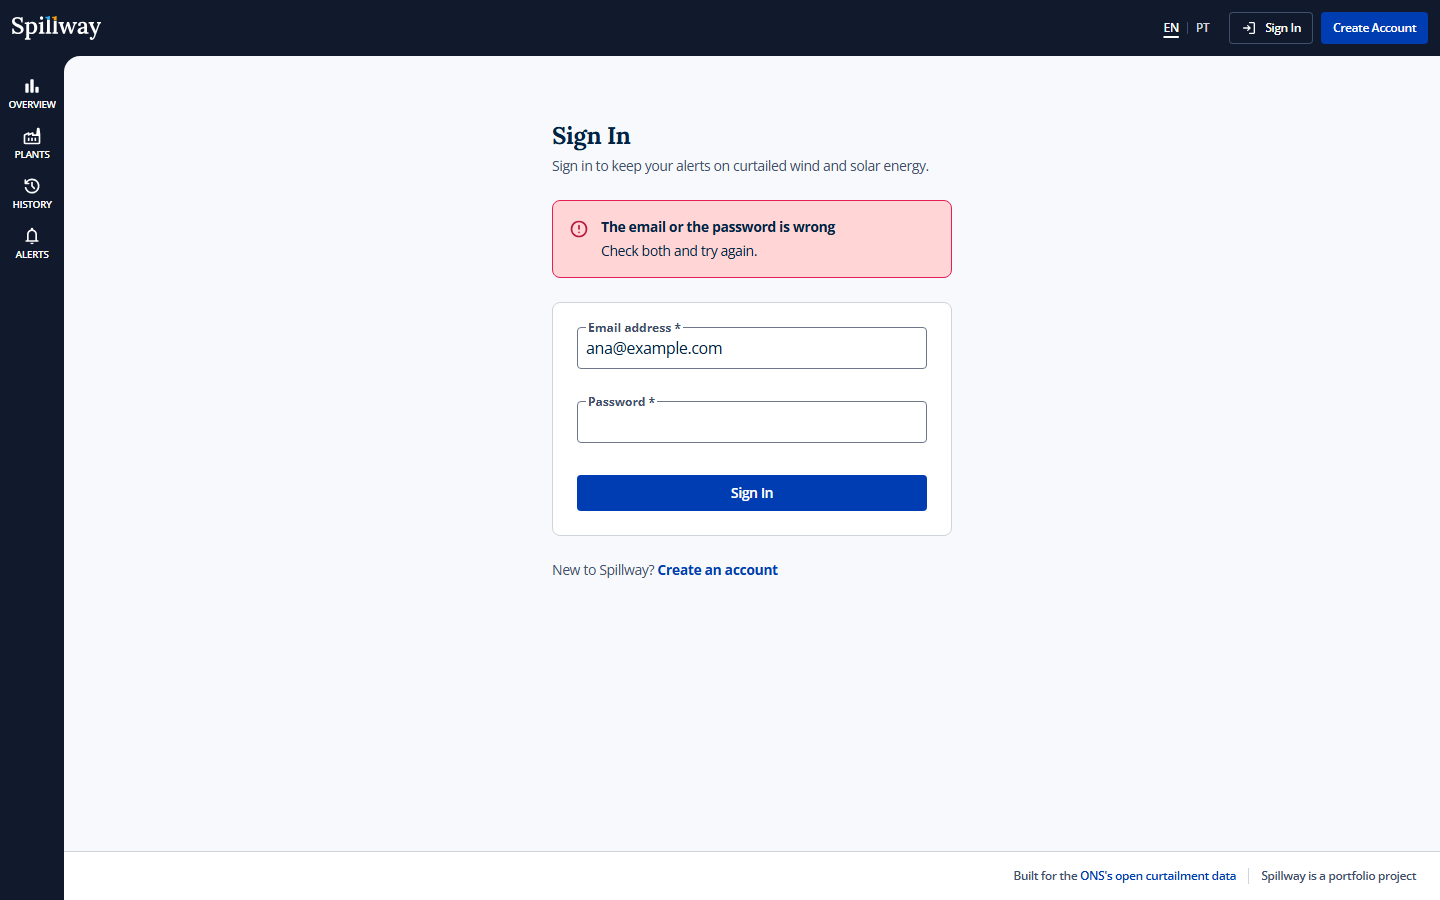
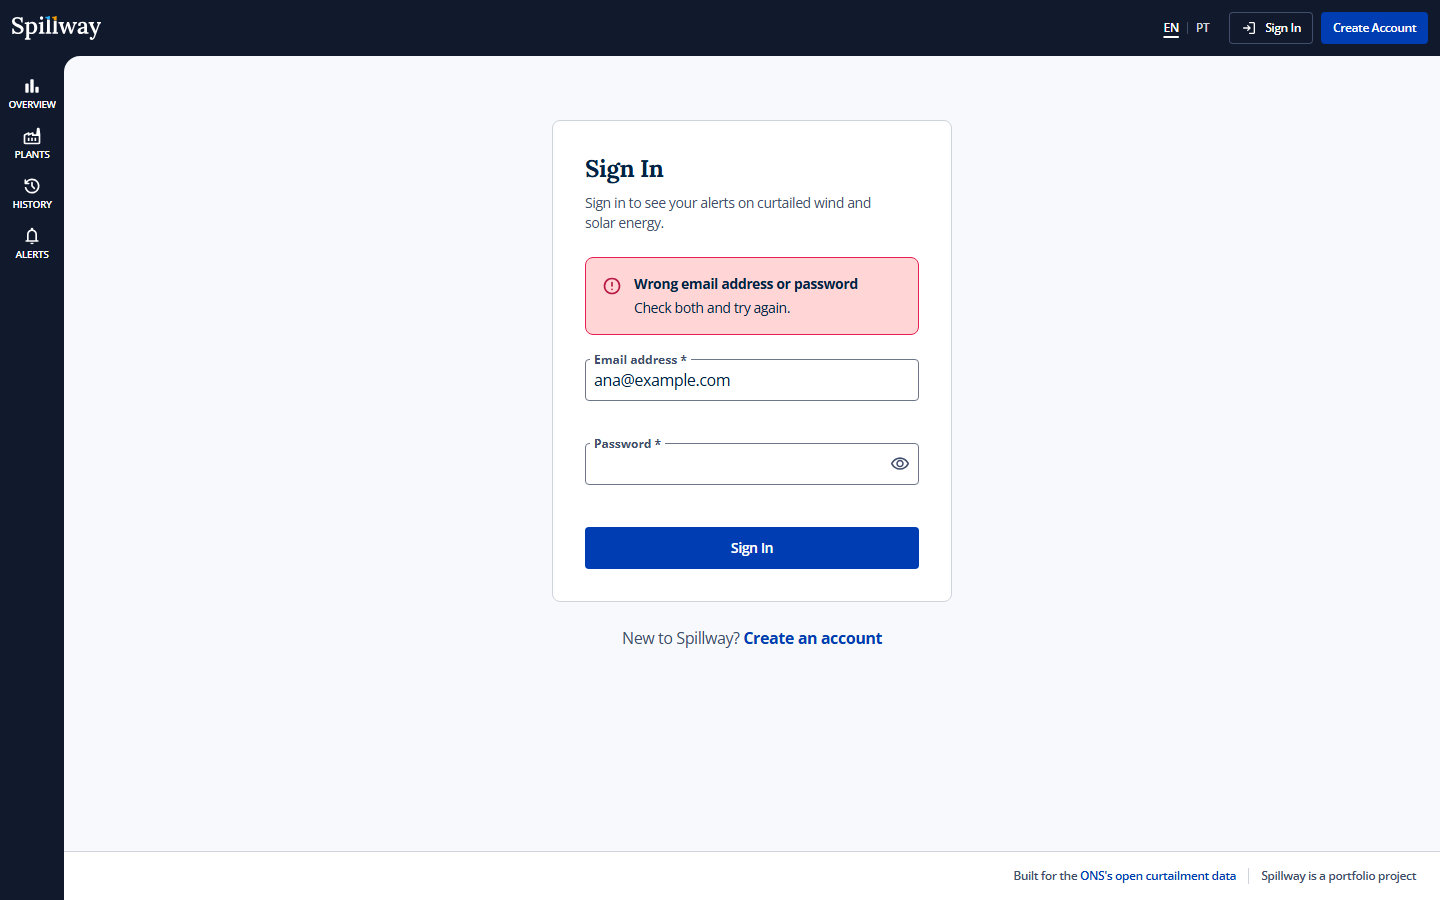
docs: record the account forms and take their screens again

Changed region(s): [[0.375, 0.1244, 0.6875, 0.4978], [0.375, 0.5289, 0.6562, 0.6533], [0.4375, 0.6844, 0.625, 0.7156]]

diff --git a/docs/adr/0027-sign-in-and-sign-up-check-each-field-as-it-is-left.md b/docs/adr/0027-sign-in-and-sign-up-check-each-field-as-it-is-left.md
@@ -1,0 +1,34 @@
+# 27. Sign-in and sign-up check each field as it is left
+
+- Status: accepted; narrows the error summary of [ADR 0009](0009-a-dense-dashboard-look-accessibility-first.md) to the longer forms
+- Date: 2026-10-19
+
+## Context
+
+The two account forms were checked by the server alone. A mistake showed after a round trip, twice: in an error summary at the top of the page, which pushed the form down as it appeared, and again under its field. The password's guidance sat under its field in the small bold type of an error, so it read as one before anything was typed. Each page drew its own copy of the same form, and the line to the other page sat under it, small and to one side.
+
+## Decision
+
+- **One form for both, `AccountForm`.** The title and its line, the fields and a full-width button share one card, and under it, centred, is the way to the other page. A refusal of the whole form, a wrong password or too many attempts, shows inside the card, above the fields.
+- **The browser checks a field when it is left.** The fields already carry the contract's rules as attributes, `required`, `type="email"`, `minlength` and `maxlength`; the Constraint Validation API reads them, and each broken rule is named with the server's code, so the words are the same whichever side found it. A field left empty on the way through is not judged. Once a field shows an error, each keystroke checks it again, so the error goes as soon as it is put right. Nothing is judged while it is first typed.
+- **A form the browser can tell is wrong is not sent.** Each wrong field says why, and focus goes to the first. The server checks everything again (ADR 0005), and what only it can know, an address already taken or a wrong password, comes back as before.
+- **No error summary on these two forms.** With two fields, each error sits beside its field; a summary would only repeat it and move the form. Without JavaScript, the refused page loads with `autofocus` on the first wrong field, where the script would have put focus. The alert form, longer and beside its preview, keeps its summary.
+- **A hint looks like a hint:** regular type in the body's grey. An error takes its place in bold red with an icon, so the two differ by more than colour. The password's hint says the one rule the server applies, 15 characters, and a tip, never a rule it does not enforce.
+- **The line under each field is kept when empty**, so a message that comes or goes never moves the field below it.
+- **A button shows the password**, since 15 characters typed unseen are easy to get wrong. It keeps its name and says whether it is on with `aria-pressed`, and appears once the script runs, since it needs it. The field never spellchecks, so a shown password is not sent to a spelling service, and a refused form clears it, shown or not.
+- **A pending button shows a spinner** where its icon goes and refuses a second press with `aria-disabled`, staying in the tab order. Under reduced motion the spinner stands still; the label says the same.
+- **`autocomplete="username"` on the address**, which is what a password manager saves and fills in beside the password.
+
+## Consequences
+
+- The rules are applied in three places, the browser, the web server and the API, all from the contract's limits.
+- A field's error comes from the browser or from the server. The form keeps the browser's verdict on a field until the server answers again, which starts it over.
+- A field with no hint is a line taller, and the alert form grows by that line under its subsystem.
+- The text and select fields share the line under them, `FieldMessage`, so the alert form's hints and errors changed with these.
+
+## Alternatives considered
+
+- **Checking each key as it is typed:** an error before the address is finished.
+- **The browser's own messages, `reportValidity()`:** bubbles that differ by browser, leave after a moment, and speak the browser's language, not the edition's.
+- **Keeping the summary here:** the one or two errors already beside their fields, said again above them, with the form pushed down as it appears.
+- **A validation library:** a few rules a field, all of which the browser already checks.

diff --git a/README.md b/README.md
@@ -63,7 +63,7 @@ SvelteKit 3 and Svelte 5 in front, a Go 1.27 API behind it, Postgres 18 behind t
 
 **A sign-in refused**
 
-![The sign-in page saying the email or the password is wrong, the address kept and the password cleared](docs/screenshots/sign-in-refused.png)
+![The sign-in card saying the email address or password is wrong, inside the card above the fields, the address kept, the password cleared beside its show button, and the way to create an account centred under the card](docs/screenshots/sign-in-refused.png)
 
 Regenerate with `pnpm run screenshots`, against the stack `docker compose up --wait --build` started, or with `pnpm run screenshots <name>` for one screen. They show the latest day the ONS has published, and the alerts are taken as an account of the script's own, `ana@example.com`, whose alerts it replaces each time.
 
@@ -128,6 +128,7 @@ The ONS publishes it on its open data portal under CC-BY, plant by plant in half
 - **Sessions no script can read.** An opaque token, stored only as its SHA-256, in an `HttpOnly`, `SameSite=Lax` cookie; argon2id for passwords, a throttle per address on sign-in, and the same answer and the same delay for an unknown address and a wrong password ([ADR 0006](docs/adr/0006-sessions-cookies-csrf-and-cors.md), [ADR 0007](docs/adr/0007-the-sign-in-throttle-lives-in-memory.md)).
 - **Twenty alerts means twenty.** Creating one locks the account's row, counts and inserts in one transaction, and a test fires forty creates at once at a real Postgres to prove only twenty land ([ADR 0008](docs/adr/0008-the-alert-limit-is-held-by-the-database.md)).
 - **Every form works without JavaScript.** Each is a plain form with a server action, enhanced when the script runs; a refused form comes back with what was typed, and an accepted one redirects, so a reload never posts it twice ([ADR 0010](docs/adr/0010-every-form-works-without-javascript.md)).
+- **Account forms that check as you go.** Sign-in and sign-up share one form: the browser checks a field when it is left, with the rules the contract already put on it, and a form it can tell is wrong is not sent; focus goes to the first field to fix, and a password can be shown ([ADR 0027](docs/adr/0027-sign-in-and-sign-up-check-each-field-as-it-is-left.md)).
 - **A dense look, accessible first.** Dark chrome, white panels, compact controls and tables, from tokens in Tailwind 4; every label visible, native selects and radios, one focus ring, an error summary that takes focus ([ADR 0009](docs/adr/0009-a-dense-dashboard-look-accessibility-first.md)), and toasts that leave on their own but never while pointed at or focused ([ADR 0023](docs/adr/0023-toasts-under-the-page-header-leave-on-their-own.md)).
 - **The ONS's files, synced on their own.** A second process from the same binary lists the ONS's bucket every hour, loads each new or revised month by its ETag, the latest first, and replaces it whole in one transaction. The pages read the sums it keeps, never the files ([ADR 0020](docs/adr/0020-the-ons-data-is-synced-by-a-process-of-its-own.md)).
 - **Firings read from the data.** An alert's firings are a query over the daily sums, not rows of their own, so a revised day revises them too ([ADR 0021](docs/adr/0021-firings-are-read-from-the-data.md)).

diff --git a/docs/adr/0009-a-dense-dashboard-look-accessibility-first.md b/docs/adr/0009-a-dense-dashboard-look-accessibility-first.md
@@ -1,6 +1,6 @@
 # 9. A dense dashboard look, with accessibility first
 
-- Status: accepted; its icon choice replaced by [ADR 0019](0019-material-symbols-and-a-wordmark-drawn-from-the-data.md), and its rule for toasts by [ADR 0023](0023-toasts-under-the-page-header-leave-on-their-own.md)
+- Status: accepted; its icon choice replaced by [ADR 0019](0019-material-symbols-and-a-wordmark-drawn-from-the-data.md), its rule for toasts by [ADR 0023](0023-toasts-under-the-page-header-leave-on-their-own.md), and its error summary, on sign-in and sign-up, by [ADR 0027](0027-sign-in-and-sign-up-check-each-field-as-it-is-left.md)
 - Date: 2026-10-17
 
 ## Context

diff --git a/docs/adr/README.md b/docs/adr/README.md
@@ -30,3 +30,4 @@ One file per decision that had a trade-off, version pins included. Each says wha
 | [0024](0024-a-map-of-the-subsystems-beside-their-ranking.md) | A map of the subsystems, beside their ranking |
 | [0025](0025-a-chart-or-its-table-by-a-switch.md) | A chart or its table, by a switch |
 | [0026](0026-a-portuguese-edition-under-pt-br.md) | A Portuguese edition, under /pt-br |
+| [0027](0027-sign-in-and-sign-up-check-each-field-as-it-is-left.md) | Sign-in and sign-up check each field as it is left |
